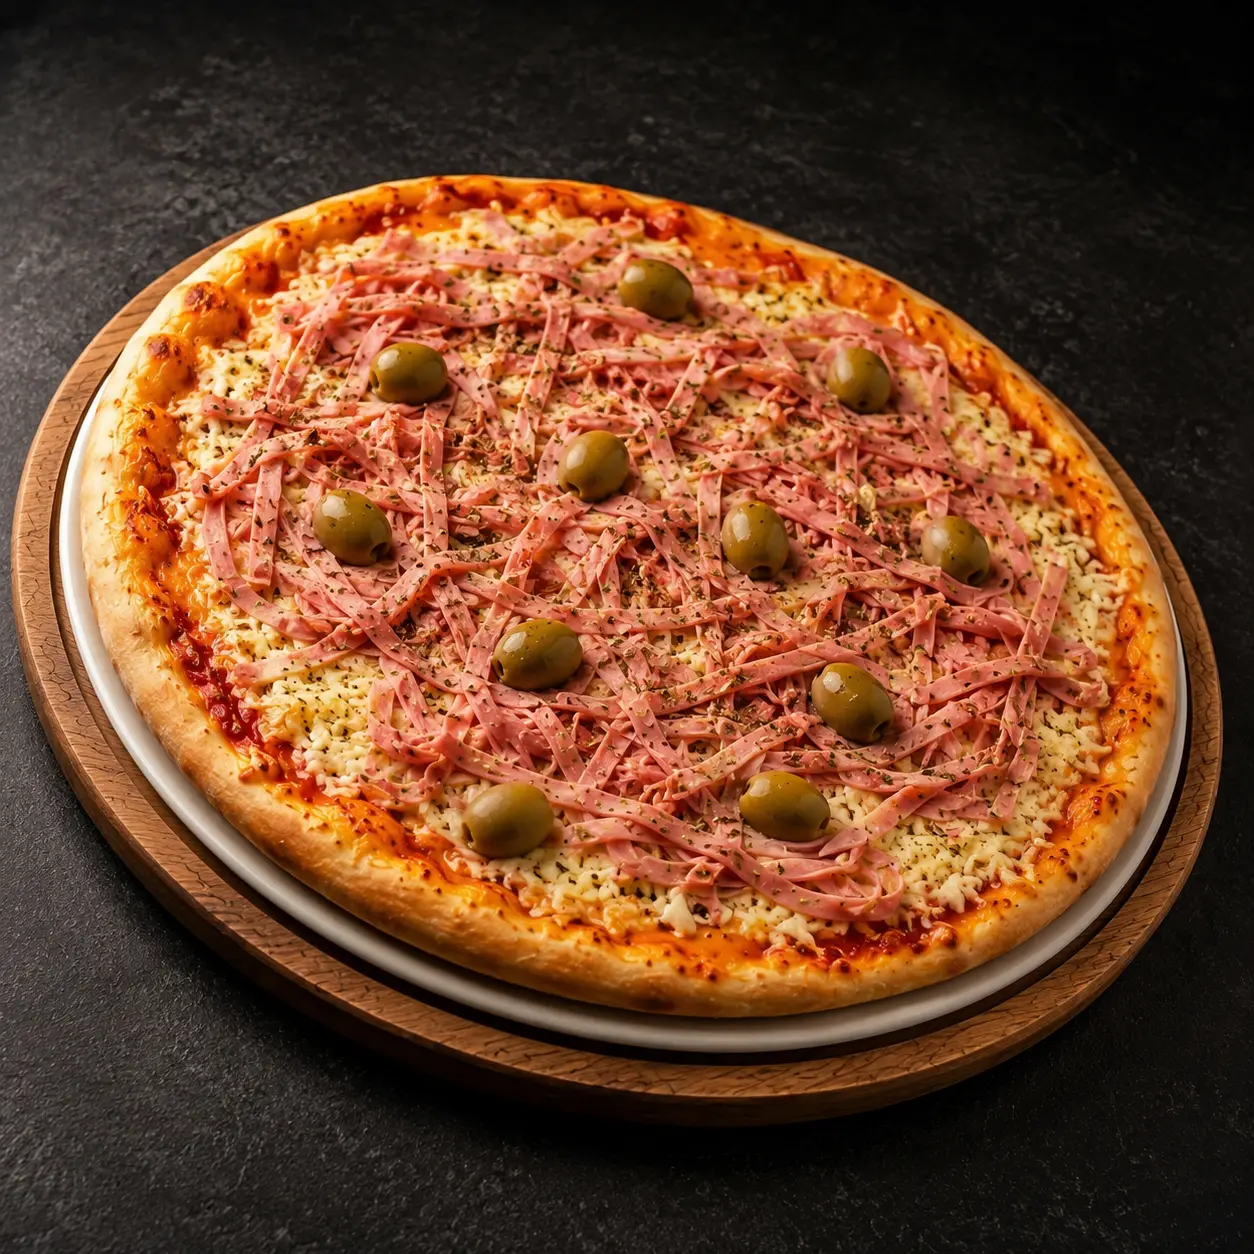
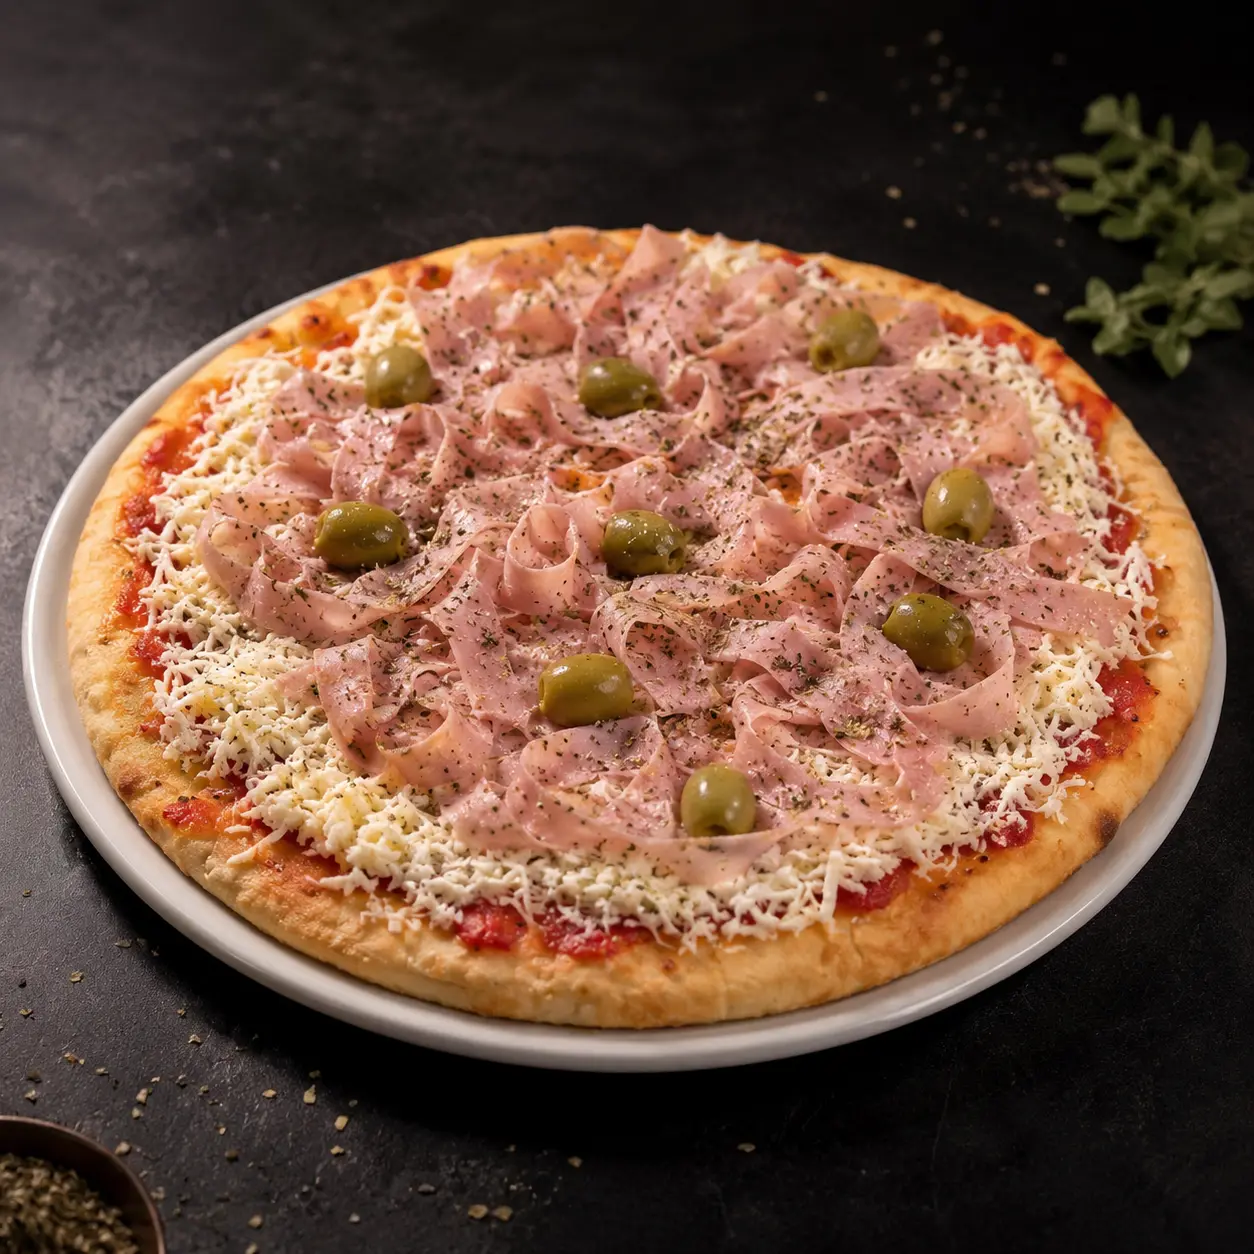
Actualizar foto Jamón: Pizza-clasica-jamon convertida a WebP

diff --git a/src/lib/site-data.ts b/src/lib/site-data.ts
@@ -238,7 +238,7 @@ export const PIZZAS: Pizza[] = [
       "Masa artesanal, salsa de tomate, muzzarella, abundante jamón cocido, aderezo especial y aceitunas verdes descarozadas.",
     category: "clasica",
     freezerNote: "El jamón cocido congela bien si está bien sellado.",
-    image: "/pizzas/jamon.png",
+    image: "/pizzas/jamon.webp",
     price: "$8.000",
     cookTime: "15 min",
     portions: "4-6 porciones",